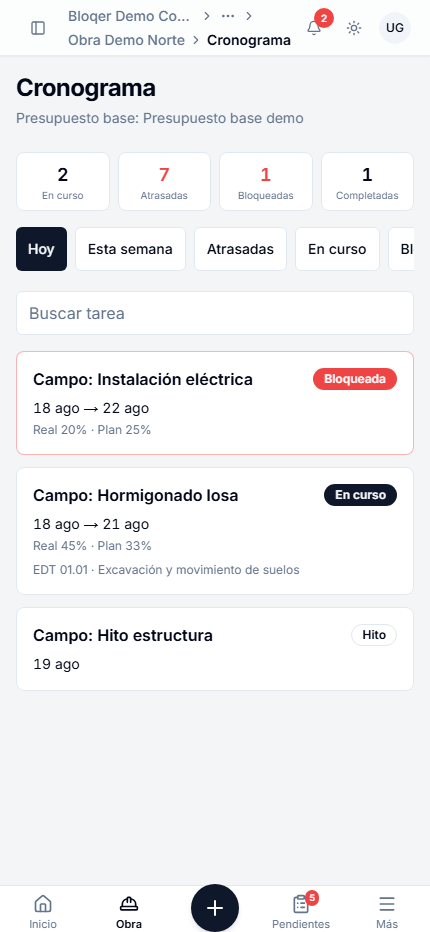
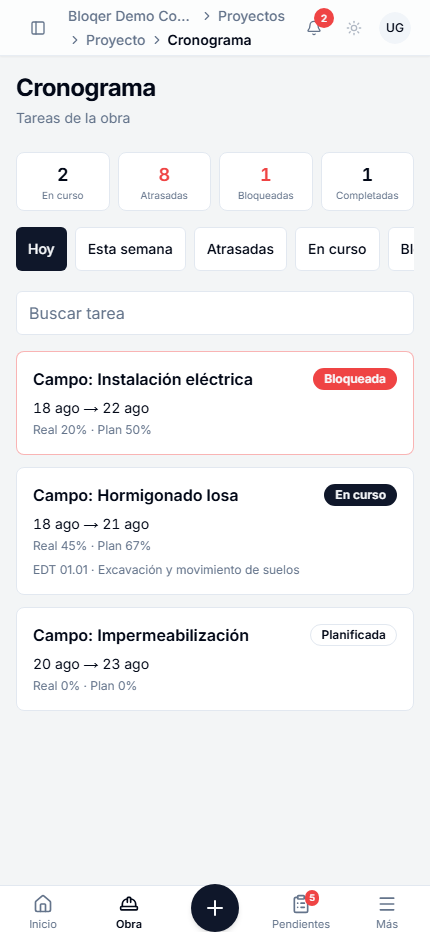
perf(schedule): keep Cronograma Field off the Gantt cost-control path.
Document Field read-model timings and refresh the viewport cookie only when the cronograma data source actually changes.

diff --git a/apps/web/components/layout/viewport-hint-sync.tsx b/apps/web/components/layout/viewport-hint-sync.tsx
@@ -30,7 +30,15 @@ export function ViewportHintSync() {
       const isCronograma = pathname.includes("/cronograma");
       const cronogramaSourceChanged = (prev === "lg") !== (next === "lg");
 
-      if (isDashboard || (isCronograma && cronogramaSourceChanged) || prev !== null) {
+      if (isDashboard) {
+        router.refresh();
+        return;
+      }
+      if (isCronograma) {
+        if (cronogramaSourceChanged) router.refresh();
+        return;
+      }
+      if (prev !== null) {
         router.refresh();
       }
     };

diff --git a/docs/bloqer2.0/AUDITORIA_MOBILE_BLOQER_V2.md b/docs/bloqer2.0/AUDITORIA_MOBILE_BLOQER_V2.md
@@ -1141,16 +1141,25 @@ No implementados.
 
 `docs/bloqer2.0/mobile-audit/cronograma-field.spec.ts` — skip `bloqer.app` / `vercel.app`. Viewports 390, 430, 768 (lista Field), 1440 (Gantt). Cookie `bloqer-viewport` `sm`/`md`/`lg` alineada al viewport para no cargar el DTO desktop en mobile.
 
+3 passed (OWNER 390 + VIEWER + 430/768/1440). `data-query-ms=1241` `data-schedule-source=field` en 390 (primera pintura E2E tras compile). Gantt 1440 visible; Field ausente.
+
 ## Performance
 
-Medición local (dev, caliente, Neon `dev`, DEMO-001):
+Medición local (Neon `dev`, DEMO-001, 12 `ScheduleItem`):
 
-| | BEFORE (`getProjectScheduleWorkspace`) | AFTER (`getProjectScheduleFieldWorkspace`) |
+**Desglose `getProjectScheduleWorkspace` (warm):** total **3398 ms** — `getProjectCostControl` **1306 ms**; ítems+deps **711 ms**; `ensureScheduleForProject` **574 ms**; APU/`costByCategory` **284 ms**; rollup **146 ms**; count **142 ms**; currency **147 ms**; module gate **76 ms**. Cold: **4266 ms** (cost control **1941 ms**). Payload ítems+summary ≈ 5.6 KB.
+
+**`getProjectScheduleFieldWorkspace` (warm):** total **597 ms** — `ensureScheduleForProject` **288 ms** + `scheduleItem.findMany` (WBS + predecesoras) **305 ms**. Cold **651 ms**. Payload ≈ 4.1 KB. 12 hojas.
+
+| | BEFORE | AFTER Field |
 |---|---|---|
-| Causa | `getProjectCostControl` (certificaciones, OC, subcontratos, AP, inventario, partes, APU por categoría) + ítems/WBS/deps/métricas | Ítems + WBS + predecesoras |
-| `data-query-ms` warm | ≈ 4.5–5.3 s | (ver corrida de este lote) |
-| Queries Field | decenas (reporte de costos) | `ensureScheduleForProject` + `scheduleItem.findMany` |
-| Payload | DTO Gantt + métricas por ítem | hojas Field |
+| Causa de 4.5–5.3 s | `getProjectCostControl` (certificaciones, OC, subcontratos, AP, inventario, partes) + APU por categoría + métricas Gantt | ya no corre en Field |
+| Service warm | 3.4 s (workspace) | **0.6 s** |
+| Playwright `data-query-ms` | ≈ 4.5–5.3 s | **1241 ms** (390, primera E2E) |
+| Queries Field | decenas | `ensureScheduleForProject` + 1 `findMany` |
+| HTTP GET Field (Next, caliente) | ≈ 4.9–5.4 s | ≈ 2.4 s |
+
+Costo que queda en Field (~0.6 s service / ~1.2 s queryMs E2E): round-trips Neon de schedule + ítems/WBS/predecesoras (incluye `ensureScheduleForProject`, que aún trae ids de ítems). No es control de costos.
 
 Los chips Field **no** vuelven a consultar el servidor. Desktop ≥ `lg` sigue en el workspace completo; no se reemplazó su DTO.
 
